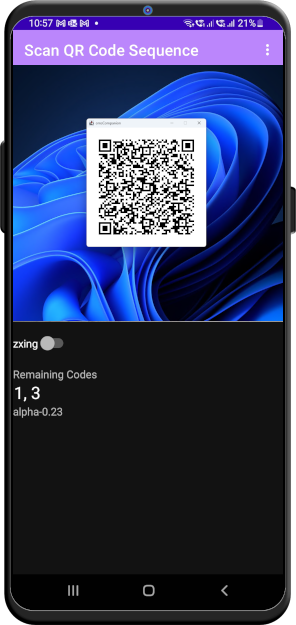
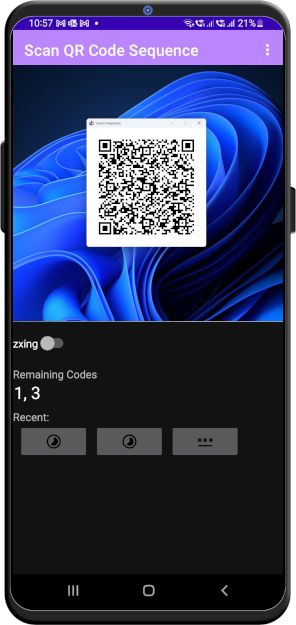
changed readme

Changed region(s): [[0.0, 0.0304, 0.5473, 0.9728], [0.973, 0.0608, 1.0, 0.9728], [0.5777, 0.6688, 0.8209, 0.7296]]

diff --git a/qr_scanner.md b/qr_scanner.md
@@ -6,7 +6,10 @@ This is where you capture the QR code sequence using the camera preview.
 If you are restoring your [private key](./key_import.md) from the backup file, pay attention to the *Remaining Codes* list. In the above example, codes 1 and 3 have not been scanned yet.
 
 ## The zxing Switch
-Some smartphones (e.g. newer OnePlus devices) seem to be incompatible with the [zebra crossing](https://github.com/zxing/zxing) barcode recognition engine. To work around this issue, the default barcode recognition engine now is [Google ML Kit](https://developers.google.com/ml-kit). You still have the option to switch back to zxing if you have problems with ML Kit on your device. Please let us know if you do so, otherwise zxing engine will be removed from the app in future releases. 
+Some smartphones (e.g. newer OnePlus devices) seem to be incompatible with the [zebra crossing](https://github.com/zxing/zxing) barcode recognition engine. To work around this issue, the default barcode recognition engine now is [Google ML Kit](https://developers.google.com/ml-kit). You still have the option to switch back to zxing if you have problems with ML Kit on your device. Please let us know if you do so, otherwise zxing engine might be removed from the app in future releases. 
+
+## Recent Values
+The session is locked after 5 minutes of inactivity - sounds familiar? This is a shortcut to the latest entries you have decrypted with *OneMoreSecret* so you don't have to look them up again. The shortcuts keep the encrypted version, so it only takes a fingerprint scan to get to it. The symbol represents the type of the secret (in the screenshot, there is 2x OTP and 1x Password).
 
 ## Toolbar Options
 - [Private Key Management](key_management.md)
